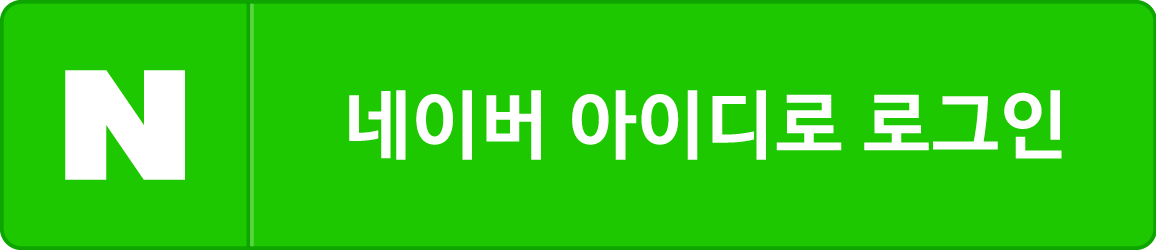
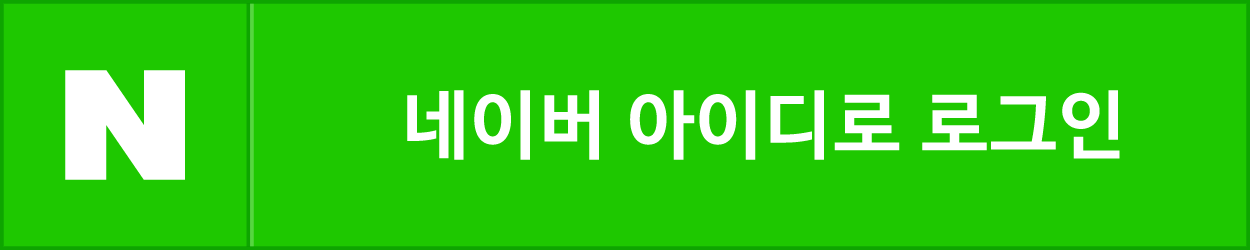
Design: login 버튼 크기 변경
?: 버튼의 비율과 로그인 이미지의 비율을 맞추기 위해 변경

diff --git a/client/src/components/mainPage/NaverLogin.js b/client/src/components/mainPage/NaverLogin.js
@@ -14,7 +14,7 @@ const NoStyleButton = styled.button`
   margin: 0;
   padding: 0;
 
-  height: 6rem;
+  height: 5rem;
   background-image: url(${loginImage});
   background-repeat: no-repeat;
   background-size: contain;
